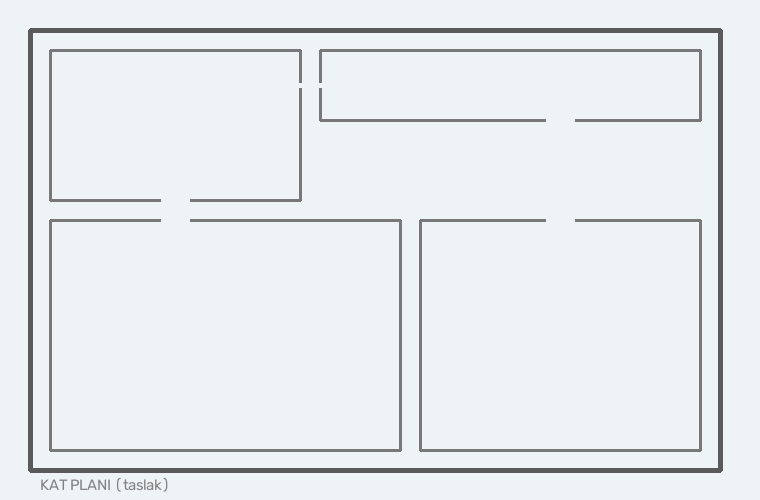
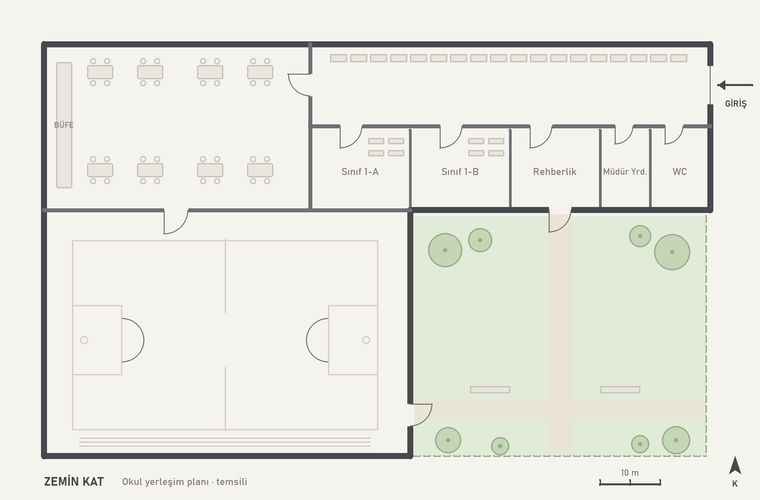
web: daha gerçekçi okul kat planı (bölge koordinatları aynı)
- Zemin kat: kantin (büfe, masalar), koridor (dolaplar), sınıf şeridi (Sınıf 1-A/1-B,
  Rehberlik, Müdür Yrd., WC), spor salonu (saha çizgileri, tribün), bahçe (çim, ağaçlar, yol, çit)
- Kapı açılma yayları, ana giriş oku, kuzey oku, ölçek, 'temsili' notu
- Bölge poligonları config.yaml ile birebir aynı: config değişmedi; bölge ortaları
  app.js'in ad/sayı yazısı için boş bırakıldı
- web/assets/draw_floorplan.py: planı yeniden üreten betik (Pillow + Bahnschrift)

diff --git a/web/assets/draw_floorplan.py b/web/assets/draw_floorplan.py
@@ -1,0 +1,209 @@
+"""web/floorplan.png üretir (760x500). Bölge poligonları config.yaml ile AYNI kalır:
+kantin (50,50)-(300,200), koridor_1 (320,50)-(700,120), spor_salonu (50,220)-(400,450), bahce (420,220)-(700,450).
+Bölge adı ve olay sayısını app.js her bölgenin ortasına yazar: o alanlar boş bırakılır.
+Kullanım (proje kökünden): python web/assets/draw_floorplan.py web/floorplan.png
+Gerekli: Pillow (matplotlib/ultralytics ile zaten gelir), Windows Bahnschrift fontu.
+"""
+import math
+import sys
+
+from PIL import Image, ImageDraw, ImageFont
+
+S = 3                      # süper örnekleme (kenar yumuşatma için 3x çiz, sonra küçült)
+W, H = 760, 500
+PAPER = (245, 243, 238)    # style.css .plan-frame ile aynı
+WALL = (70, 72, 76)
+INNER = (110, 112, 116)
+FURN = (200, 195, 185)
+FURN_FILL = (233, 230, 223)
+LABEL = (128, 123, 114)
+GRASS = (226, 234, 216)
+TREE = (196, 214, 182)
+TREE_LINE = (150, 172, 138)
+PATH = (234, 228, 214)
+
+FONT_PATH = "C:/Windows/Fonts/bahnschrift.ttf"
+
+
+def font(size, weight=400):
+    f = ImageFont.truetype(FONT_PATH, size * S)
+    try:
+        f.set_variation_by_axes([weight, 100])   # wght, wdth
+    except Exception:
+        pass
+    return f
+
+
+img = Image.new("RGB", (W * S, H * S), PAPER)
+d = ImageDraw.Draw(img)
+
+
+def P(*xy):
+    return [v * S for v in xy]
+
+
+def line(x1, y1, x2, y2, w, c):
+    d.line(P(x1, y1, x2, y2), fill=c, width=round(w * S))
+    r = w * S / 2   # yuvarlak uçlar
+    for x, y in ((x1, y1), (x2, y2)):
+        d.ellipse([x * S - r, y * S - r, x * S + r, y * S + r], fill=c)
+
+
+def wall(points, w=4, c=WALL):
+    for (x1, y1), (x2, y2) in zip(points, points[1:]):
+        line(x1, y1, x2, y2, w, c)
+
+
+def rect(x1, y1, x2, y2, outline=FURN, fill=FURN_FILL, w=1.2, r=0):
+    if r:
+        d.rounded_rectangle(P(x1, y1, x2, y2), radius=r * S, outline=outline, fill=fill, width=round(w * S))
+    else:
+        d.rectangle(P(x1, y1, x2, y2), outline=outline, fill=fill, width=round(w * S))
+
+
+def circle(cx, cy, r, outline=FURN, fill=None, w=1.2):
+    d.ellipse(P(cx - r, cy - r, cx + r, cy + r), outline=outline, fill=fill, width=round(w * S))
+
+
+def arc(cx, cy, r, a0, a1, c=INNER, w=1):
+    d.arc(P(cx - r, cy - r, cx + r, cy + r), a0, a1, fill=c, width=round(w * S))
+
+
+def text(x, y, s, size=11, c=LABEL, anchor="mm", weight=400):
+    d.text((x * S, y * S), s, font=font(size, weight), fill=c, anchor=anchor)
+
+
+def door_h(x, y, width=22, swing=1):
+    """Yatay duvarda kapı: duvarda boşluk + açılma yayı. swing=+1 aşağı, -1 yukarı açılır."""
+    d.rectangle(P(x, y - 4, x + width, y + 4), fill=PAPER)
+    line(x, y, x, y + swing * width, 1, INNER)
+    if swing > 0:
+        arc(x, y, width, 0, 90)
+    else:
+        arc(x, y, width, 270, 360)
+
+
+def door_v(x, y, width=22, swing=1):
+    """Dikey duvarda kapı. swing=+1 sağa, -1 sola açılır."""
+    d.rectangle(P(x - 4, y, x + 4, y + width), fill=PAPER)
+    line(x, y, x + swing * width, y, 1, INNER)
+    if swing > 0:
+        arc(x, y, width, 0, 90)
+    else:
+        arc(x, y, width, 90, 180)
+
+
+# ---------------- Bahçe (dış alan, binanın dışında) ----------------
+d.rectangle(P(414, 216, 706, 456), fill=GRASS)
+# yürüyüş yolu: sınıf koridorundaki bahçe kapısından aşağı, sonra sağa
+d.rectangle(P(548, 214, 572, 456), fill=PATH)
+d.rectangle(P(414, 400, 706, 418), fill=PATH)
+# ağaçlar (köşelerde; ortadaki etiket alanı boş)
+for cx, cy, r in [(445, 250, 17), (480, 240, 12), (672, 252, 18), (640, 236, 11),
+                  (448, 440, 13), (676, 440, 14), (640, 444, 9), (500, 446, 9)]:
+    circle(cx, cy, r, outline=TREE_LINE, fill=TREE, w=1.2)
+    circle(cx, cy, 2, outline=TREE_LINE, fill=TREE_LINE, w=1)
+# banklar
+rect(600, 386, 640, 393, outline=FURN, fill=FURN_FILL)
+rect(470, 386, 510, 393, outline=FURN, fill=FURN_FILL)
+# çit (kesikli)
+def dashed(x1, y1, x2, y2, dash=6, gap=4):
+    length = math.hypot(x2 - x1, y2 - y1)
+    n = int(length // (dash + gap)) + 1
+    for i in range(n):
+        a = i * (dash + gap) / length
+        b = min(1, (i * (dash + gap) + dash) / length)
+        line(x1 + (x2 - x1) * a, y1 + (y2 - y1) * a, x1 + (x2 - x1) * b, y1 + (y2 - y1) * b, 1.4, TREE_LINE)
+dashed(414, 456, 706, 456)
+dashed(706, 216, 706, 456)
+
+# ---------------- Kantin (50,50)-(300,200) ----------------
+# büfe tezgâhı sol duvar boyunca
+rect(56, 62, 72, 188, r=2)
+text(64, 125, "BÜFE", 8, anchor="mm")   # dikey yazı yerine kısa etiket
+# masalar: köşelerde, merkez (175,125) boş
+for tx, ty in [(100, 72), (150, 72), (210, 72), (260, 72), (100, 170), (150, 170), (210, 170), (260, 170)]:
+    rect(tx - 13, ty - 7, tx + 13, ty + 7, r=2)
+    for sx in (-7, 7):
+        circle(tx + sx, ty - 11, 3)
+        circle(tx + sx, ty + 11, 3)
+
+# ---------------- 1. Kat koridor (320,50)-(700,120) ----------------
+# dolaplar üst duvar boyunca
+for i in range(18):
+    x = 330 + i * 20
+    rect(x, 54, x + 17, 62, r=1)
+
+# ---------------- Sınıf şeridi (310..710, 130..210): bölge değil, etiketli ----------------
+rooms = [(310, 410, "Sınıf 1-A"), (410, 510, "Sınıf 1-B"), (510, 600, "Rehberlik"), (600, 650, "Müdür Yrd."), (650, 710, "WC")]
+for x1, x2, name in rooms:
+    text((x1 + x2) / 2, 172, name, 10 if len(name) < 10 else 9)
+for x in (410, 510, 600, 650):
+    wall([(x, 130), (x, 210)], 2.5, INNER)
+# sıralar (sınıflarda)
+for x1, x2, _ in rooms[:2]:
+    for r_ in range(2):          # kapı yayından (x1+30..x1+52) uzakta, sağ yarıda
+        for c_ in range(2):
+            rect(x1 + 58 + c_ * 20, 138 + r_ * 12, x1 + 74 + c_ * 20, 144 + r_ * 12, r=1)
+
+# ---------------- Spor salonu (50,220)-(400,450) ----------------
+COURT = (214, 208, 196)
+cx0, cy0, cx1, cy1 = 72, 240, 378, 430
+d.rectangle(P(cx0, cy0, cx1, cy1), outline=COURT, width=round(1.4 * S))
+mid = (cx0 + cx1) / 2
+line(mid, cy0, mid, 312, 1.4, COURT)        # orta çizgi: etiket alanında (merkez ~225,340) kesik
+line(mid, 368, mid, cy1, 1.4, COURT)
+for side in (0, 1):                          # boyalı alanlar + potalar
+    x_edge = cx0 if side == 0 else cx1
+    k = 1 if side == 0 else -1
+    d.rectangle(P(min(x_edge, x_edge + k * 50), 305, max(x_edge, x_edge + k * 50), 375), outline=COURT, width=round(1.4 * S))
+    arc(x_edge + k * 50, 340, 22, 270, 90) if side == 0 else arc(x_edge + k * 50, 340, 22, 90, 270)
+    circle(x_edge + k * 12, 340, 4, outline=COURT, w=1.4)
+# tribün (alt duvar boyunca)
+for i in range(3):
+    line(80, 438 + i * 4, 370, 438 + i * 4, 1, FURN)
+
+# ---------------- Duvarlar ----------------
+# bina dış duvarı (L biçimi; bahçe dışarıda)
+wall([(44, 44), (710, 44), (710, 210), (410, 210), (410, 456), (44, 456), (44, 44)], 6)
+# iç duvarlar
+wall([(310, 44), (310, 210)], 4, INNER)          # kantin | koridor+sınıflar
+wall([(44, 210), (310, 210)], 4, INNER)          # kantin | spor salonu
+wall([(310, 126), (710, 126)], 4, INNER)         # koridor | sınıflar
+wall([(310, 210), (410, 210)], 4, INNER)         # sınıf 1-A | spor salonu
+
+# kapılar
+door_v(310, 74, 22, swing=-1)                    # kantin ↔ koridor
+door_h(164, 210, 24, swing=1)                    # kantin ↔ spor salonu
+for x in (340, 440, 530, 615, 665):              # koridor ↔ odalar
+    door_h(x, 126, 18 if x > 600 else 22, swing=1)
+door_h(549, 210, 22, swing=1)                    # sınıflar ↔ bahçe (yolun başı)
+door_v(410, 404, 22, swing=1)                    # spor salonu ↔ bahçe
+# ana giriş: koridorun doğu ucu
+d.rectangle(P(706, 66, 714, 104), fill=PAPER)
+line(710, 66, 710, 104, 1, INNER)
+
+# ---------------- Giriş oku, başlık, kuzey, ölçek ----------------
+def arrow(x1, y, x2, c=WALL):
+    line(x1, y, x2, y, 2, c)
+    d.polygon(P(x2, y, x2 + 7, y - 5, x2 + 7, y + 5), fill=c)
+arrow(752, 85, 718)
+text(736, 104, "GİRİŞ", 9, c=WALL, weight=600)
+
+text(44, 482, "ZEMİN KAT", 12, c=WALL, anchor="lm", weight=700)
+text(122, 482, "Okul yerleşim planı · temsili", 10, anchor="lm")
+
+# kuzey oku
+nx, ny = 735, 470
+d.polygon(P(nx, ny - 14, nx + 6, ny + 4, nx, ny, nx - 6, ny + 4), fill=WALL)
+text(nx, ny + 14, "K", 9, c=WALL, weight=600)
+# ölçek çubuğu (temsili 10 m)
+sx, sy = 600, 484
+line(sx, sy, sx + 60, sy, 2, WALL)
+for t in (0, 30, 60):
+    line(sx + t, sy - 4, sx + t, sy + 1, 1.4, WALL)
+text(sx + 30, sy - 11, "10 m", 9)
+
+out = img.resize((W, H), Image.LANCZOS)
+out.save(sys.argv[1], optimize=True)
+print("yazıldı:", sys.argv[1], out.size)
